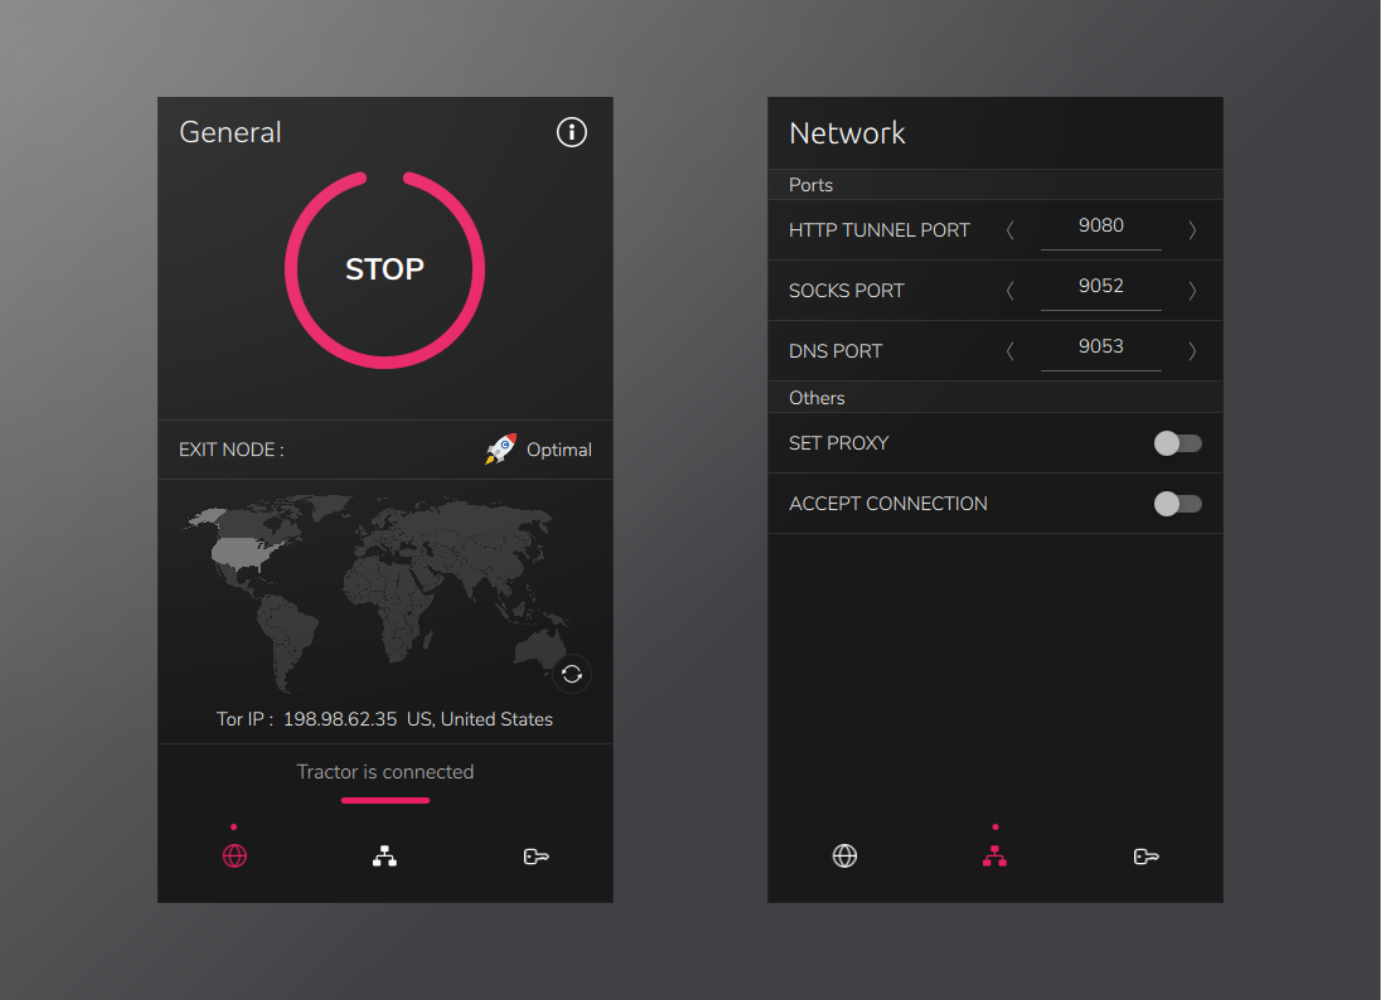
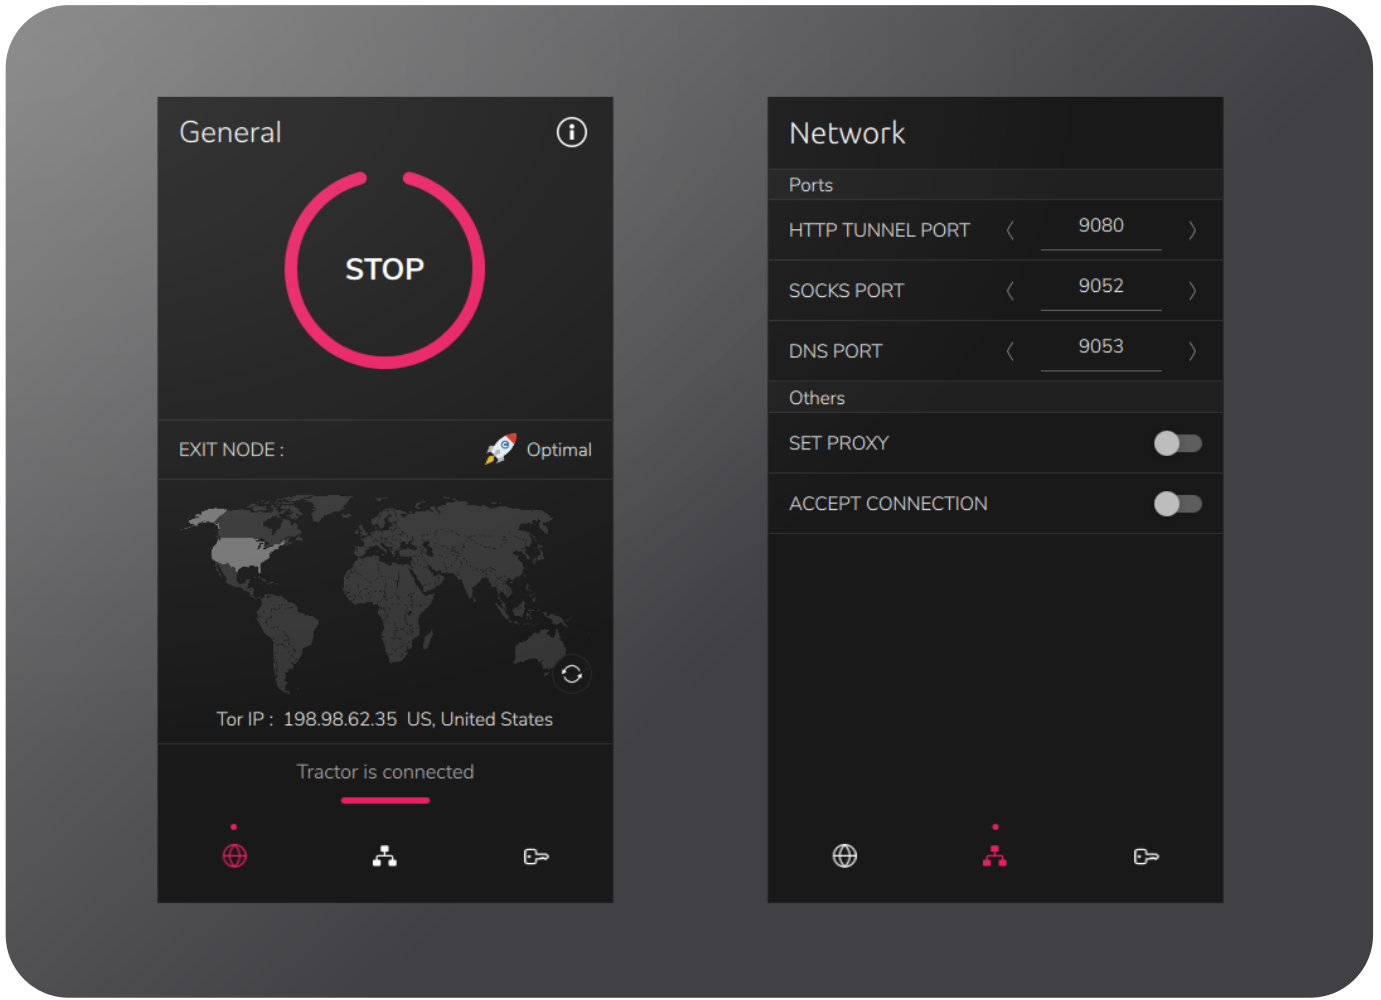
Update screenshot

Changed region(s): [[0.0, 0.0, 1.0, 1.0]]

diff --git a/README.md b/README.md
@@ -1,10 +1,8 @@
-# Qtractor
+# Traqtor
 
-This is a graphical settings app for tractor which is a package uses Python stem library to provide a connection through the onion proxy and sets up proxy in user session, so you don't have to mess up with TOR on your system anymore.
+This is a graphical settings app for tractor which is a package uses Python stem library to provide a connection through the onion proxy and sets up proxy in user session, so you **don't have to mess up with TOR** on your system anymore.
 
-<!--![traqtorPoster](/uploads/b06f001c6bf186f15da12fdd62c2749e/traqtorPoster.png)-->
-
-![traqtorPoster](./screenshots/traqtor_poster.png)
+<img src="./screenshots/traqtor_poster.png" width=600/>
 
 ## Installation
 
